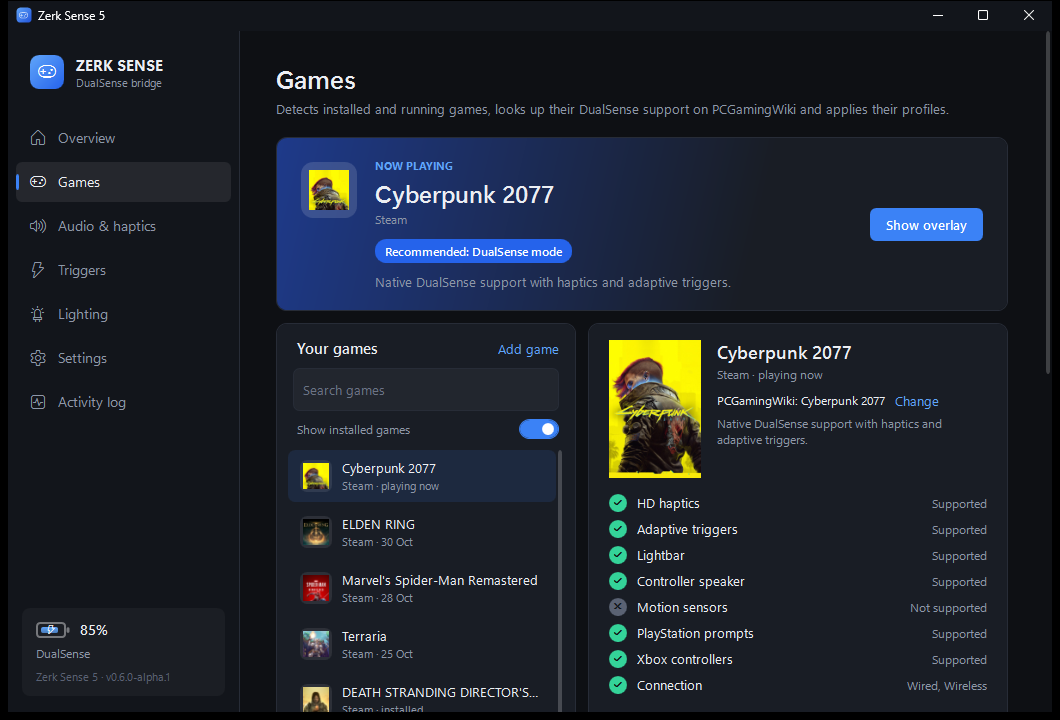
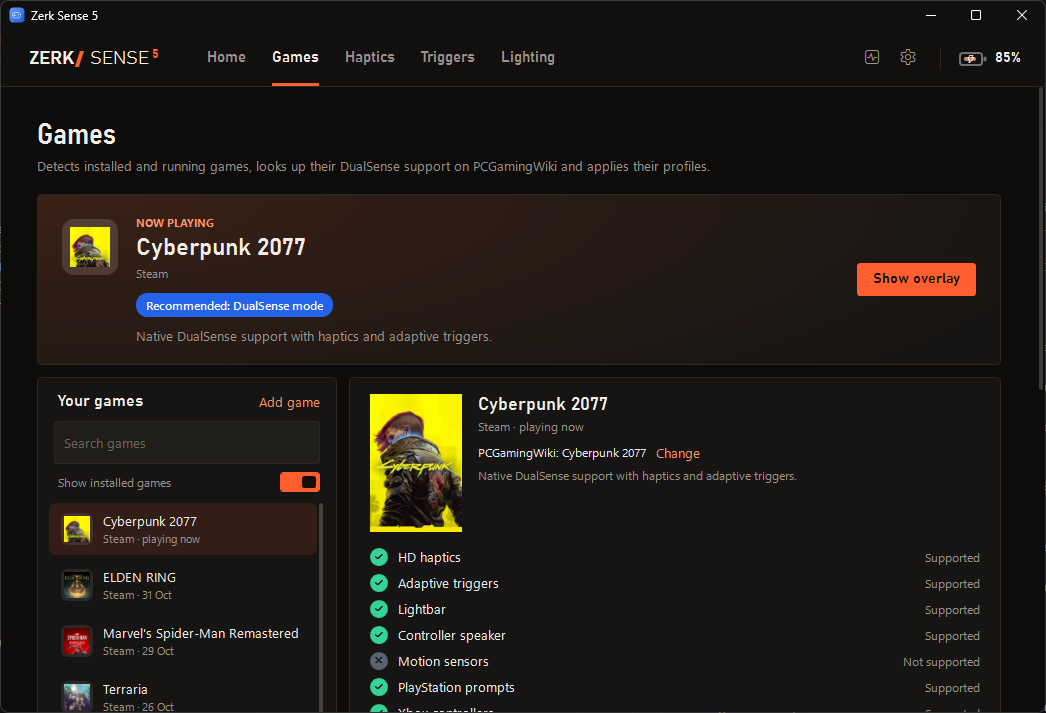
Update README for DSX mods, the new UI and latency results
New banner and screenshots, a DSX mods guide, and measured latency and
jitter with how they were tested.

diff --git a/README.md b/README.md
@@ -20,7 +20,7 @@ The idea comes from [DS5Dongle](https://github.com/awalol/DS5Dongle), which does
 
 > **Alpha.** This is an early pre-release. Expect rough edges, and please [open an issue](https://github.com/florinp93/ZerkSense5/issues) when something doesn't work.
 
-![Overview](docs/screenshots/overview.png)
+![Home](docs/screenshots/overview.png)
 
 ## How it works
 
@@ -31,6 +31,8 @@ For games without DualSense support it can plug in a virtual **Xbox 360 controll
 ## Features
 
 - **Wired features over Bluetooth:** HD haptics, speaker, headset jack, microphone, adaptive triggers and lightbar.
+- **Live controller view:** the Home page draws the DualSense and lights up buttons, sticks, triggers, touchpad and lightbar as you use it, next to the trigger effects in use.
+- **DSX mods:** game mods made for DSX drive the adaptive triggers and lights without DSX installed. See [DSX mods](#dsx-mods).
 - **Battery:** level and charging state in the app and in the tray icon, plus a low battery alert.
 - **Game library:** installed games from Steam, Epic, GOG, Ubisoft Connect, Xbox, EA and Battle.net, plus every game inside your game folders (any `Games` folder on a drive is picked up automatically). Each game gets its own icon, and Steam games their cover art.
 - **Game detection:** the running game is found by its install folder, Steam's running-game status, or as a fullscreen 3D app. Helpers like crash reporters and anti-cheat launchers are ignored.
@@ -78,6 +80,41 @@ The screenshots use the built-in showcase mode (`ZerkSense5.exe --demo`) with sa
 
 The virtual controller is plugged in when the DualSense connects and removed when it disconnects or is switched off. Closing the window keeps the app running in the tray. Use the tray menu to exit.
 
+## DSX mods
+
+Many games get adaptive triggers and lighting from mods written for [DSX](https://github.com/Paliverse/DualSenseX). Those mods send their effects to DSX over a local connection. Zerk Sense 5 listens for the same messages, so the mods work without DSX.
+
+1. Close DSX if it's installed. Both apps use port 6969, and only one can listen on it.
+2. In Zerk Sense 5, check that **DSX mods** is on (Triggers page). It's on by default.
+3. Install the mod as its page describes, but skip installing or starting DSX.
+4. Start the game. The Home page shows **DSX mods: Active** once the mod connects.
+
+Notes:
+
+- Mods work in both DualSense and Xbox 360 mode. Most DSX mods are for games without DualSense support, which Auto runs in Xbox 360 mode.
+- A mod's trigger effects take priority over the game profile's custom effects and over rumble on the triggers. They are cleared when the game closes.
+- Supported: trigger effects (including custom values), lightbar colour, player LEDs, mic LED and reset to user settings. The reply mods wait for includes the real battery level.
+- Mods written for the newer DSX v3 protocol only aren't supported yet.
+- Mods that talk to the controller themselves instead of through DSX don't need this. They see the virtual wired DualSense in DualSense mode, as they would a USB-connected controller.
+
+## Latency and jitter
+
+Bridging adds about **0.04 ms** of input latency, and no jitter of its own.
+
+| Mode | Reports measured | Median | p95 | p99 | Dropped reports |
+|---|---|---|---|---|---|
+| DualSense | 18,319 | 37 µs | 48 µs | 62 µs | 0 |
+| Xbox 360 | 19,097 | 35 µs | 45 µs | 59 µs | 0 |
+
+The controller sent about 800 reports a second, one every 1.25 ms. Most reports arrived on time, but about 1 in 100 came after a gap of 11 to 15 ms, occasionally up to 25 ms. Those gaps were already there in the controller's own timestamps and on arrival over Bluetooth, before the bridge. The virtual controller passed them through unchanged: the spread of report intervals was the same going in and coming out (standard deviation 2,176 µs in, 2,175 µs out in DualSense mode). A game reading the DualSense directly over Bluetooth would see the same gaps.
+
+**How it was measured.** One DualSense over Bluetooth, 30 seconds per mode, with the built-in `--latency` diagnostic. Every Bluetooth report was timestamped as it reached the app, which is when a game reading the controller directly over Bluetooth would get it. The same report was timestamped again when it came out of the virtual controller:
+
+- **DualSense mode:** read from the virtual wired DualSense as a HID device, the way games read it. Reports were paired by the controller's packet number and timestamp, which pass through unchanged.
+- **Xbox 360 mode:** read through XInput, checked continuously while the sticks moved. Each change was paired with the latest Bluetooth report that produced the same buttons, triggers and stick positions.
+
+Both timestamps come from the same high-resolution clock. The time from pressing a button to the report reaching Windows is the same with or without the bridge, so it isn't part of the measurement. To measure your own setup, see `--latency` under [Diagnostics](#diagnostics).
+
 ## Building
 
 ```
@@ -103,6 +140,7 @@ These run without the GUI. Use `dotnet ZerkSense5.dll` to skip the admin prompt.
 | `--probe` | Talks to the paired controller: feature reports, input rate, a lightbar change and a short haptics buzz |
 | `--games [appid:name or title ...]` | Runs the PCGamingWiki lookup for every game in the library, or for the given ones |
 | `--capture [pid]` | Records 3 seconds of a process's audio, or all system audio, through the audio haptics filter |
+| `--latency [seconds] [--xbox]` | Measures the latency and jitter the bridge adds, in DualSense or Xbox 360 mode. Needs an admin terminal and the app closed; saves a report next to the executable |
 
 ## Settings
 
@@ -121,6 +159,7 @@ Everything is editable in the app and saved to `config.json` next to the executa
 - [DS5Dongle](https://github.com/awalol/DS5Dongle) by awalol for the Bluetooth and USB protocol details
 - [GP2040-CE](https://github.com/OpenStickCommunity/GP2040-CE) for the Xbox 360 USB descriptors
 - [Concentus](https://github.com/lostromb/concentus) for Opus encoding and decoding
+- [dualsense-tester](https://github.com/daidr/dualsense-tester) by daidr for the controller artwork
 - [PCGamingWiki](https://www.pcgamingwiki.com) for game controller data
 - [usbip-win2](https://github.com/vadimgrn/usbip-win2) and [HidHide](https://github.com/nefarius/HidHide)
 

diff --git a/CHANGELOG.md b/CHANGELOG.md
@@ -2,6 +2,17 @@
 
 All notable changes to this project are documented here. The format follows [Keep a Changelog](https://keepachangelog.com/en/1.1.0/), and versions follow [Semantic Versioning](https://semver.org/spec/v2.0.0.html).
 
+## [Unreleased]
+
+### Added
+- DSX mod support: mods written for DSX drive the adaptive triggers, lightbar, player LEDs and mic LED without DSX installed. Can be turned off on the Triggers page.
+- Live controller view on the Home page: buttons, sticks, triggers, touchpad and lightbar light up as you use the controller.
+- `--latency` diagnostic that measures the input latency and jitter the bridge adds, in DualSense or Xbox 360 mode.
+
+### Changed
+- New look: warm dark theme with an orange accent, a top tab bar instead of the sidebar, and a Home page built around the controller.
+- The demo mode (`--demo`) shows sample controller input.
+
 ## [0.6.0-alpha.3] - 2026-11-01
 
 ### Changed
